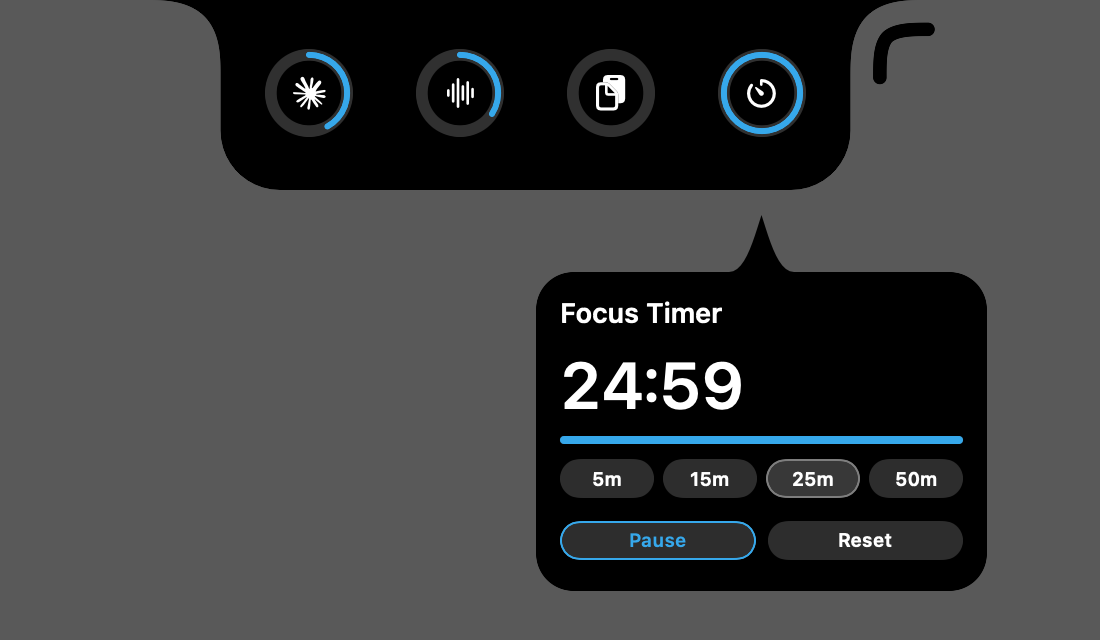
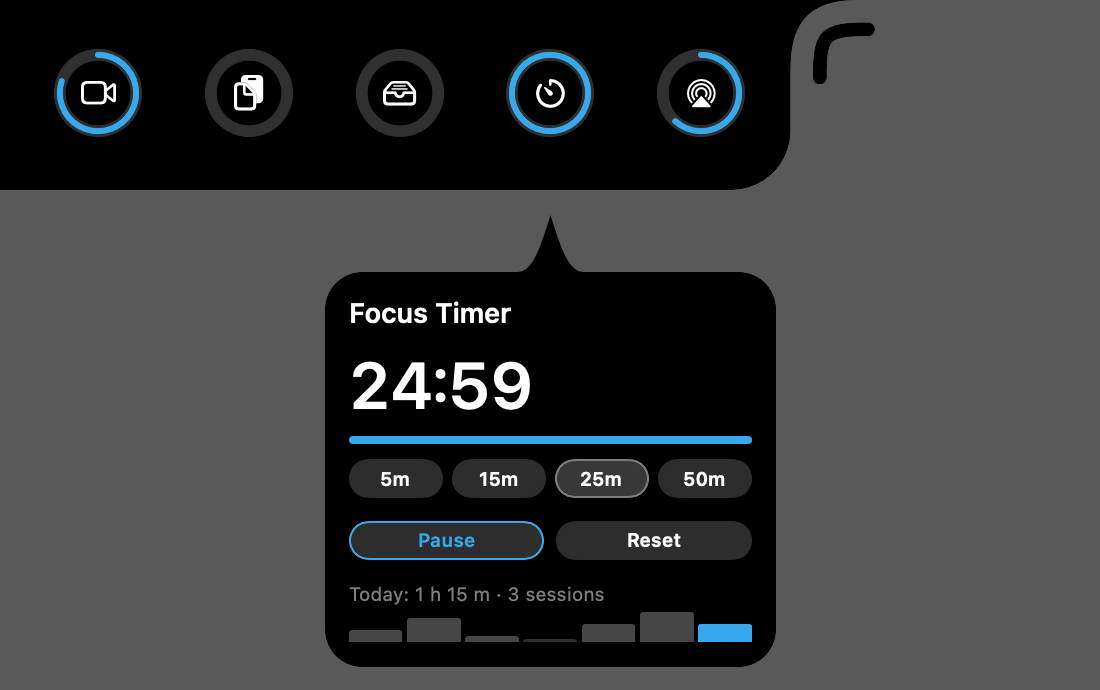
Website: 1.25.0 — six deck tools, a new picture, Homebrew
- The first picture was squeezed out of shape: every image had its width
  capped to the column but kept its height. Images now keep their own
  proportions, and the picture is new: the notch open at the top of the
  screen with the whole deck and the Vault card, on a wallpaper.
- The deck section shows all six tools: Now Playing (with volume and output),
  Next meeting, Clipboard (search, snippets), Vault, Focus timer (breaks,
  the week), Live status. Card pictures are shown whole rather than cropped.
- The clipboard close-up is the current card; Homebrew install line.

diff --git a/index.html b/index.html
@@ -6,7 +6,7 @@
 <title>NotchDeck</title>
 <meta name="description" content="A small black notch on your screen edge: how much of each AI coding assistant's usage limit you have left, whether it is still working — plus Now Playing, clipboard history and a focus timer. For macOS and Windows.">
 <meta property="og:title" content="NotchDeck">
-<meta property="og:description" content="AI coding-assistant usage rings, Now Playing, clipboard history and a focus timer — in a notch on your screen edge. macOS and Windows.">
+<meta property="og:description" content="AI coding-assistant usage rings, Now Playing, your next meeting, clipboard history, a file vault and a focus timer — in a notch on your screen edge. macOS and Windows.">
 <meta property="og:image" content="https://mr-who-root.github.io/notchdeck/assets/og.jpg">
 <meta property="og:type" content="website">
 <meta name="twitter:card" content="summary_large_image">
@@ -42,7 +42,7 @@
     font:16px/1.6 -apple-system,BlinkMacSystemFont,"SF Pro Text","Segoe UI",system-ui,sans-serif;
     -webkit-font-smoothing:antialiased;overflow-x:hidden}
   a{color:inherit}
-  img{max-width:100%;display:block}
+  img{max-width:100%;height:auto;display:block}
   .wrap{max-width:1120px;margin:0 auto;padding:0 20px}
 
   /* ---- top bar */
@@ -90,8 +90,10 @@
 
   .grid{display:grid;gap:18px;grid-template-columns:repeat(auto-fit,minmax(min(100%,320px),1fr))}
   .card{background:var(--panel);border:1px solid var(--line);border-radius:var(--radius);overflow:hidden;display:flex;flex-direction:column}
-  .card .pic{background:#5a5a5a;border-bottom:1px solid var(--line)}
-  .card .pic img{width:100%;aspect-ratio:1100/640;object-fit:cover}
+  .card .pic{background:#595959;border-bottom:1px solid var(--line)}
+  /* Whole, never cropped: the cards are different heights, and the grey they
+     are rendered on fills the rest. */
+  .card .pic img{width:100%;aspect-ratio:1100/690;object-fit:contain;object-position:top}
   .card .body{padding:20px 22px 24px}
   .card h3{margin:0 0 6px;font-size:19px;letter-spacing:-.01em;display:flex;align-items:center;gap:9px}
   .dot{width:10px;height:10px;border-radius:50%;flex:none}
@@ -155,7 +157,8 @@
       <h1>Your AI limits,<br><span class="grad">and a deck of tools,</span> in the notch.</h1>
       <p class="lede">A small black notch on your screen edge that shows how much of each coding assistant's
         usage limit you have burned — and whether it is still working, done, or waiting on you —
-        with <b>Now Playing</b>, <b>clipboard history</b> and a <b>focus timer</b> right beside the rings.</p>
+        with <b>Now Playing</b>, your <b>next meeting</b>, <b>clipboard history</b>, a <b>vault</b> for files and a
+        <b>focus timer</b> right beside the rings.</p>
       <div class="cta">
         <a class="btn primary" id="dl-mac" href="https://github.com/Mr-Who-Root/notchdeck/releases/latest/download/NotchDeck.dmg">
           <svg viewBox="0 0 24 24" fill="currentColor" aria-hidden="true"><path d="M16.37 12.6c-.02-2.2 1.8-3.26 1.88-3.31-1.03-1.5-2.62-1.7-3.19-1.73-1.36-.14-2.65.8-3.34.8-.69 0-1.75-.78-2.88-.76-1.48.02-2.85.86-3.61 2.19-1.54 2.67-.39 6.62 1.11 8.79.73 1.06 1.6 2.25 2.75 2.2 1.1-.04 1.52-.71 2.85-.71 1.33 0 1.71.71 2.88.69 1.19-.02 1.94-1.08 2.67-2.14.84-1.23 1.19-2.42 1.21-2.48-.03-.01-2.32-.89-2.33-3.54ZM14.18 6.13c.61-.74 1.02-1.76.91-2.78-.88.04-1.94.59-2.57 1.32-.56.65-1.06 1.69-.93 2.69.98.08 1.98-.5 2.59-1.23Z"/></svg>
@@ -167,14 +170,14 @@
         </a>
       </div>
       <p class="meta"><span id="release-line">Free and open source · MIT license</span> · <a href="https://github.com/Mr-Who-Root/notchdeck/releases">All releases</a></p>
-      <div class="shot"><img src="assets/hero.jpg" alt="The NotchDeck notch on the right edge of a Mac screen with its Claude usage card open" width="1400" height="1400" loading="eager"></div>
+      <div class="shot"><img src="assets/hero.jpg" alt="The NotchDeck notch open at the top of a Mac screen — usage rings, Now Playing, the next meeting, the clipboard, the vault and the focus timer — with the Vault card showing three files" width="2400" height="1180" loading="eager"></div>
     </div>
   </div>
 
   <section id="deck">
     <div class="wrap">
       <p class="eyebrow">The deck</p>
-      <h2>Three everyday tools, one hover away.</h2>
+      <h2>Six everyday tools, one hover away.</h2>
       <p class="sub">They ride the notch after the usage rings and behave exactly like them — they fold away, slide
         along the edge and follow it round all four sides of the screen. Switch any of them off and it stops reading anything at all.</p>
       <div class="grid">
@@ -182,23 +185,48 @@
           <div class="pic"><img src="assets/deck-nowPlaying.png" alt="The Now Playing card in the notch" loading="lazy"></div>
           <div class="body">
             <h3><span class="dot" style="background:var(--blue)"></span>Now Playing</h3>
-            <p>Whatever the system says is playing — Music, Spotify, podcasts, a browser tab — with artwork, a scrubber you
-              can drag, and previous / play-pause / next. Click the cell itself to play or pause.</p>
+            <p>Whatever is playing — Music, Spotify, podcasts, a browser tab — with artwork, a scrubber, previous /
+              play-pause / next, the volume, and a switch between speakers, headphones and AirPods.</p>
           </div>
         </article>
         <article class="card">
           <div class="pic"><img src="assets/deck-clipboard.png" alt="The Clipboard history card in the notch" loading="lazy"></div>
           <div class="body">
             <h3><span class="dot" style="background:var(--green)"></span>Clipboard history</h3>
-            <p>The text, links, files and images you copied, most recent first. Click a clip to copy it again, pin the ones you
-              reuse, and hover a long one to read it in full.</p>
+            <p>The text, links, files and images you copied. Search them, click one to copy it again, pin the ones you
+              reuse, and star them as snippets you can paste any time.</p>
+          </div>
+        </article>
+        <article class="card">
+          <div class="pic"><img src="assets/deck-meeting.png" alt="The Next Meeting card in the notch, with a Join button" loading="lazy"></div>
+          <div class="body">
+            <h3><span class="dot" style="background:#a78bfa"></span>Next meeting</h3>
+            <p>A ring that fills as your next meeting gets close, a <b>Join</b> button for Zoom, Meet, Teams, Webex and
+              FaceTime links, and a heads-up a few minutes before. From your Mac's calendars, or an iCal address on Windows.</p>
+          </div>
+        </article>
+        <article class="card">
+          <div class="pic"><img src="assets/deck-vault.png" alt="The Vault card in the notch holding three files" loading="lazy"></div>
+          <div class="body">
+            <h3><span class="dot" style="background:#38bdf8"></span>Vault</h3>
+            <p>Drag files onto the notch to hold them, then drag them out to copy them anywhere — hold ⌘ to move. Share,
+              zip, or let it clear itself. It points to your files, so it takes no space.</p>
           </div>
         </article>
         <article class="card">
           <div class="pic"><img src="assets/deck-timer.png" alt="The Focus Timer card in the notch" loading="lazy"></div>
           <div class="body">
             <h3><span class="dot" style="background:var(--amber)"></span>Focus timer</h3>
-            <p>Pick 5, 15, 25 or 50 minutes, click the cell to start or pause, and the notch opens with a chime when time is up.</p>
+            <p>Pick a length and click the cell to start. Optional short and long breaks, today's total and the last seven
+              days, and the notch opens with a chime when time is up.</p>
+          </div>
+        </article>
+        <article class="card">
+          <div class="pic"><img src="assets/deck-transfers.png" alt="The Downloads card in the notch with two downloads in progress" loading="lazy"></div>
+          <div class="body">
+            <h3><span class="dot" style="background:#f472b6"></span>Live status</h3>
+            <p>Downloads and AirDrop get a cell while they run and a card as they land. Plug in the charger and the notch
+              shows the battery filling.</p>
           </div>
         </article>
       </div>
@@ -216,6 +244,7 @@
           <li><b>Stays on your machine.</b> History lives in one file readable only by your user; turn off “Remember history” and it is deleted.</li>
           <li><b>Images never touch disk.</b> They are kept in memory for the session only.</li>
           <li><b>Long clips, in full.</b> Hover a clip its row cuts short and the whole thing appears, with its length.</li>
+          <li><b>Search and snippets.</b> Type to find any clip; star the ones you paste often and they stay as snippets.</li>
         </ul>
       </div>
     </div>
@@ -246,8 +275,10 @@
         <div class="platform">
           <h3><svg viewBox="0 0 24 24" fill="currentColor" aria-hidden="true"><path d="M16.37 12.6c-.02-2.2 1.8-3.26 1.88-3.31-1.03-1.5-2.62-1.7-3.19-1.73-1.36-.14-2.65.8-3.34.8-.69 0-1.75-.78-2.88-.76-1.48.02-2.85.86-3.61 2.19-1.54 2.67-.39 6.62 1.11 8.79.73 1.06 1.6 2.25 2.75 2.2 1.1-.04 1.52-.71 2.85-.71 1.33 0 1.71.71 2.88.69 1.19-.02 1.94-1.08 2.67-2.14.84-1.23 1.19-2.42 1.21-2.48-.03-.01-2.32-.89-2.33-3.54ZM14.18 6.13c.61-.74 1.02-1.76.91-2.78-.88.04-1.94.59-2.57 1.32-.56.65-1.06 1.69-.93 2.69.98.08 1.98-.5 2.59-1.23Z"/></svg>macOS</h3>
           <p class="req">macOS 15 or later · Apple Silicon and Intel</p>
+          <p class="req">With Homebrew:</p>
+          <pre><code>brew install --cask mr-who-root/notchdeck/notchdeck</code></pre>
           <ol>
-            <li>Download <b>NotchDeck.dmg</b> and drag NotchDeck to Applications.</li>
+            <li>Or download <b>NotchDeck.dmg</b> and drag NotchDeck to Applications.</li>
             <li>The build is not notarized, so clear the download quarantine once:
               <pre><code>xattr -dr com.apple.quarantine /Applications/NotchDeck.app</code></pre></li>
             <li>Open NotchDeck. If macOS says it is “damaged”, that is the quarantine flag — run the command above.</li>
